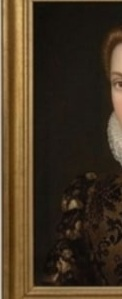
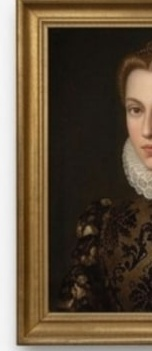
Polish web UX, rules copy, and noble/card presentation

diff --git a/web/index.html b/web/index.html
@@ -263,49 +263,58 @@
       </nav>
       <div id="rulebook-body" class="rulebook-body">
         <section class="rulebook-section" id="rb-goal">
-          <h3>Goal</h3>
-          <p>Reach <strong>15 prestige</strong> (default). If someone hits it, finish only the <strong>current round</strong> so remaining players who have not taken their turn yet get one final turn. Then game ends; ties go to whoever bought <em>fewer</em> development cards.</p>
+          <h3>🏆 The Goal: 15 Prestige Points</h3>
+          <p>The game enters its <strong>Final Round</strong> as soon as any player reaches <strong>15 Prestige Points</strong>.</p>
+          <ul>
+            <li><strong>Fair Play:</strong> The round continues until everyone has had an equal number of turns.</li>
+            <li><strong>The Winner:</strong> The player with the highest score wins.</li>
+            <li><strong>Tie-Breaker:</strong> If scores are tied, the player who purchased fewer development cards wins.</li>
+          </ul>
         </section>
         <section class="rulebook-section" id="rb-turn">
-          <h3>Your turn — pick exactly one</h3>
+          <h3>🕹 Your Turn (Choose ONE Action)</h3>
           <ol class="rulebook-steps">
             <li>
-              <strong>Take 3 gem tokens of different colors</strong>
+              <strong>Take 3 Different Gems</strong>
               <ul>
-                <li>Pick exactly one token from each of 3 different colors.</li>
-                <li>Max <strong>10 gems</strong> in hand after the action.</li>
+                <li>Pick 3 gems of different colors (excluding Gold).</li>
+                <li>Your inventory cannot exceed 10 gems (including Gold) at end of turn.</li>
+                <li>If you have more than 10 gems, you must return tokens until you have 10.</li>
               </ul>
             </li>
             <li>
-              <strong>Take 2 gem tokens of the same color</strong>
+              <strong>Take 2 Identical Gems</strong>
               <ul>
-                <li>This is only allowed if there are at least <strong>4 tokens</strong> of that color available before you take.</li>
-                <li>Max <strong>10 gems</strong> in hand after the action.</li>
+                <li>Pick 2 gems of the same color.</li>
+                <li>Requirement: only available if there are <strong>4 or more</strong> gems of that color left in the stack.</li>
               </ul>
             </li>
             <li>
-              <strong>Reserve 1 development card and take 1 gold token (joker)</strong>
+              <strong>Reserve a Card (+1 Gold)</strong>
               <ul>
-                <li>Reserve from the face-up board (max 3 reserved cards).</li>
-                <li>If gold is available, take 1 gold token. Gold can be used as a <strong>joker</strong> when paying for a card.</li>
+                <li>Choose a card from the market (or top of a deck) to your private Reserved hand (max 3).</li>
+                <li>You gain 1 Gold Token (acts as a Wild/Joker).</li>
+                <li>The market slot is immediately replenished from the deck.</li>
+                <li>If no gold is left, you can still reserve but you do not gain gold.</li>
               </ul>
             </li>
             <li>
-              <strong>Purchase 1 development card</strong>
+              <strong>Purchase a Card</strong>
               <ul>
-                <li>Buy one face-up development card from the table, or one of your previously reserved cards.</li>
-                <li>Pay with gems in hand plus permanent bonuses from cards you already bought. Gold can be used as a joker for missing colors.</li>
+                <li>Buy from the market or from your reserved hand.</li>
+                <li>The market slot is immediately replenished.</li>
               </ul>
             </li>
           </ol>
         </section>
         <section class="rulebook-section" id="rb-cards">
-          <h3>Cards &amp; bonuses</h3>
+          <h3>💎 The Power of Bonuses (Discounts)</h3>
           <ul>
-            <li><strong>Level 1</strong> — cheap, often 0 points, builds discounts.</li>
-            <li><strong>Level 2</strong> — medium cost, often 1–2 prestige.</li>
-            <li><strong>Level 3</strong> — expensive, big prestige.</li>
-            <li>Each card’s <strong>bonus color</strong> is a permanent discount on future buys of that gem color.</li>
+            <li>Every card you buy stays in your engine and provides a permanent bonus.</li>
+            <li><strong>Automatic Discount:</strong> each bonus icon counts as 1 gem of that color for future purchases.</li>
+            <li><strong>Free Buys:</strong> if your bonuses match/exceed a card cost, you can purchase without spending tokens.</li>
+            <li><strong>Stacking:</strong> bonuses and tokens combine.</li>
+            <li><strong>Example:</strong> cost is 3 Blue and you have 2 Blue bonuses, so you only need 1 Blue token.</li>
           </ul>
         </section>
         <section class="rulebook-section" id="rb-ui">
@@ -340,9 +349,13 @@
           </div>
         </section>
         <section class="rulebook-section" id="rb-nobles">
-          <h3>Nobles</h3>
-          <p>At the <strong>end</strong> of your turn, if your bonuses match a noble, they visit automatically and grant extra prestige. You never pay gems for them.</p>
-          <p class="rulebook-note">Noble names here are just labels (e.g. “Noble 1”). What matters is the gem requirements and prestige shown on the tile.</p>
+          <h3>👑 Noble Visitors</h3>
+          <p>Nobles are worth 3 points each and appear at the top of the screen.</p>
+          <ul>
+            <li><strong>Automatic Check:</strong> the game checks Noble visits at the end of every turn.</li>
+            <li><strong>Requirements:</strong> you must have the required number of permanent card bonuses (not tokens).</li>
+            <li><strong>Choosing a Noble:</strong> if you qualify for more than one, you choose which one to receive.</li>
+          </ul>
         </section>
         <section class="rulebook-section" id="rb-win">
           <h3>End of game</h3>

diff --git a/web/app.js b/web/app.js
@@ -799,19 +799,19 @@ const guidedSteps = [
 
   "Status bar (top)\n\nHere you see whose turn it is and whether the game has ended. When it is your turn, the Actions section below is yours to use.",
 
-  "Board Gems\n\nThese chips are the supply. Take either (1) 3 different colors, or (2) 2 of the same color only if at least 4 of that color are available. Gold is not taken via normal gem-taking.",
+  "Board Gems\n\nChoose ONE: (1) take 3 different gems, or (2) take 2 identical gems if 4+ of that color remain. Inventory cannot exceed 10 gems (including gold); if above 10, discard down to 10.",
 
   "Take Gems\n\nOpen the Take Gems row, pick a legal combination, then press \"Confirm Take Gems\". Try it once so you have tokens to spend later.\n\nTip: you cannot hold more than 10 gems total.",
 
-  "Reserve a card\n\nUse a card's \"Reserve\" button (under each visible card).\n\n• Max 3 reserved cards.\n• Gain 1 gold token (joker) if available.\n• Buy it later with \"Buy reserved\" on your player panel.\n\nReserve helps you lock a card before others take it.",
+  "Reserve a card (+1 Gold)\n\nUse \"Reserve\" on a market card to move it to your reserved hand (max 3). If gold is available, gain 1 gold token (wild/joker). Market slots refill from the deck.",
 
   "Development cards — Level 1\n\nEach card shows its cost and a bonus gem color. After you buy a card, that color becomes a permanent discount on future purchases.",
 
-  "Purchase a card\n\nUse a card's \"Buy\" button (or click the card) when it is affordable. You can buy from face-up cards or your reserved cards. Pay with gems in hand plus permanent bonuses; gold can be used as a joker for missing colors.",
+  "Purchase a card\n\nBuy from market or reserved hand. Bonuses are permanent discounts and stack with tokens. Gold acts as a wild/joker for missing colors.",
 
   "Players panel\n\nWatch bonuses (permanent discounts), gems in hand, reserved cards, and prestige. Bonuses stack and make expensive cards easier over time.",
 
-  "Nobles\n\nNobles award free prestige if your bonuses match their requirements—they count bonuses, not loose gems. Plan your buys towards a noble when it fits your strategy.",
+  "Nobles\n\nNobles are checked automatically at end of turn. Requirements use permanent bonuses (not loose gems). Nobles grant free prestige points.",
 
   "Winning the game\n\nWhen someone reaches 15 prestige (default), the round finishes so everyone gets the same number of turns, then the highest score wins. Ties go to the player who bought fewer development cards.",
 
@@ -1974,12 +1974,16 @@ async function postPurchaseReserved(index) {
     msg.className = "message " + (result.success ? "ok" : "error");
     if (result.success) {
       showToast("Reserved card purchased.");
+    } else {
+      showToast(result.message || "Could not buy reserved card.", "error");
     }
     const state = await fetchState();
     renderState(state);
   } catch (e) {
-    msg.textContent = "Error purchasing reserved card.";
+    const text = e && e.message ? e.message : "Error purchasing reserved card.";
+    msg.textContent = text;
     msg.className = "message error";
+    showToast(text, "error");
   }
 }
 

diff --git a/web/styles.css b/web/styles.css
@@ -801,26 +801,26 @@ main {
   position: relative;
   display: flex;
   flex-direction: column;
-  gap: 8px;
+  gap: 6px;
   flex: 0 0 auto;
-  width: 118px;
-  padding: 8px;
-  background: linear-gradient(155deg, rgba(62, 72, 108, 0.96), rgba(48, 58, 90, 0.98));
-  border-radius: 12px;
-  border: 1px solid rgba(232, 163, 23, 0.24);
-  font-size: 0.7rem;
-  box-shadow: 0 10px 24px rgba(0, 0, 0, 0.36), inset 0 1px 0 rgba(255, 255, 255, 0.05);
+  width: 112px;
+  padding: 6px;
+  background: linear-gradient(165deg, rgba(40, 48, 76, 0.98), rgba(28, 36, 60, 0.98));
+  border-radius: 10px;
+  border: 1px solid rgba(255, 255, 255, 0.14);
+  font-size: 0.66rem;
+  box-shadow: 0 6px 16px rgba(0, 0, 0, 0.32), inset 0 1px 0 rgba(255, 255, 255, 0.04);
 }
 
 .noble-card__portrait {
   width: 100%;
   min-width: 0;
-  height: 148px;
-  border-radius: 10px;
+  height: 138px;
+  border-radius: 8px;
   border: none;
   background-color: rgba(8, 10, 16, 0.85);
-  background-size: cover;
-  background-position: center 35%;
+  background-size: contain;
+  background-position: center center;
   background-repeat: no-repeat;
 }
 
@@ -843,7 +843,7 @@ main {
   font-weight: 600;
   color: #e8eaf0;
   line-height: 1.25;
-  font-size: 0.65rem;
+  font-size: 0.62rem;
 }
 
 .noble-card__title {
@@ -855,7 +855,7 @@ main {
 
 .noble-card__pts {
   flex: 0 0 auto;
-  min-width: 30px;
+  min-width: 28px;
   text-align: center;
   font-weight: 800;
   color: #fff4d6;
@@ -863,7 +863,7 @@ main {
   border: 1px solid rgba(255, 233, 180, 0.45);
   border-radius: 999px;
   padding: 1px 6px;
-  font-size: 0.62rem;
+  font-size: 0.58rem;
 }
 
 .noble-card__reqs {
@@ -872,9 +872,9 @@ main {
 }
 
 .noble-card__reqs .pill {
-  padding: 3px 5px;
-  font-size: 0.58rem;
-  border-radius: 10px;
+  padding: 2px 4px;
+  font-size: 0.54rem;
+  border-radius: 8px;
 }
 
 .noble-card__reqs .gem-pill-content {
@@ -885,7 +885,7 @@ main {
 }
 
 .noble-card__reqs .gem-sprite--stone {
-  --gw: 0.82rem;
+  --gw: 0.72rem;
 }
 
 .nobles-list::-webkit-scrollbar {
@@ -1257,6 +1257,13 @@ main {
 
 .take-gem-option--readonly {
   opacity: 0.88;
+}
+
+/* Keep Onyx take-row surface consistent with the other take rows. */
+.take-gem-option.gem-ONYX {
+  background: rgba(16, 18, 26, 0.92);
+  border-color: rgba(255, 255, 255, 0.14);
+  color: #eef1f8;
 }
 
 .take-gem-option__controls {
@@ -1660,12 +1667,13 @@ main {
   bottom: 8px;
   z-index: 2;
   display: flex;
-  flex-direction: column;
+  flex-direction: row;
   align-items: flex-start;
-  gap: 5px;
-  max-height: calc(100% - 56px);
-  overflow: hidden;
-  flex-wrap: nowrap;
+  gap: 4px;
+  max-width: calc(100% - 52px);
+  max-height: none;
+  overflow: visible;
+  flex-wrap: wrap;
   padding-right: 2px;
   scrollbar-width: none;
 }

diff --git a/web/config.js b/web/config.js
@@ -65,16 +65,16 @@ window.__SPLENDOR_DEV_CARD_ART_FILENAME__ = function (globalIdx) {
 // Example files: media/noble1.jpg, media/noble2.jpg, ...
 window.__SPLENDOR_NOBLE_ART_BASE__ = "media";
 window.__SPLENDOR_NOBLE_ART_BY_ID__ = {
-  1: "media/noble1.jpg?v=3",
-  2: "media/noble2.jpg?v=3",
-  3: "media/noble3.jpg?v=3",
-  4: "media/noble4.jpg?v=3",
-  5: "media/noble5.jpg?v=3",
-  6: "media/noble6.jpg?v=3",
-  7: "media/noble7.jpg?v=3",
-  8: "media/noble8.jpg?v=3",
-  9: "media/noble9.jpg?v=3",
-  10: "media/noble10.jpg?v=3",
+  1: "media/noble1.jpg?v=4",
+  2: "media/noble2.jpg?v=4",
+  3: "media/noble3.jpg?v=4",
+  4: "media/noble4.jpg?v=4",
+  5: "media/noble5.jpg?v=4",
+  6: "media/noble6.jpg?v=4",
+  7: "media/noble7.jpg?v=4",
+  8: "media/noble8.jpg?v=4",
+  9: "media/noble9.jpg?v=4",
+  10: "media/noble10.jpg?v=4",
 };
 // Optional explicit mapping (overrides filename function when present):
 // window.__SPLENDOR_NOBLE_ART_BY_ID__ = { 1: "media/noble1.jpg", 2: "media/noble2.jpg" };
